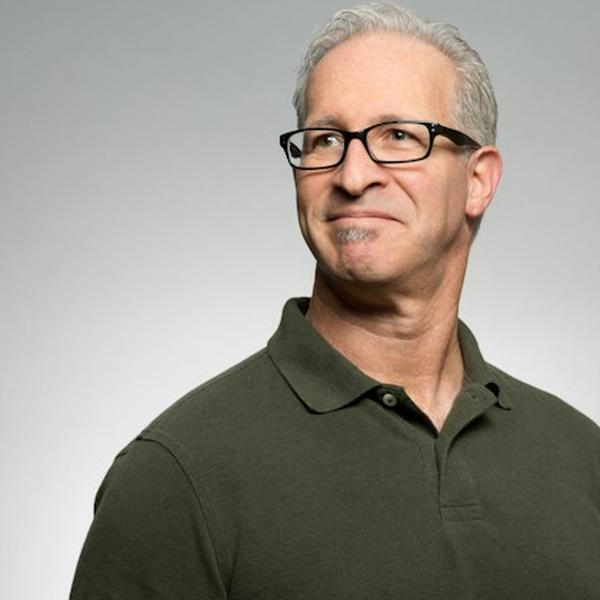
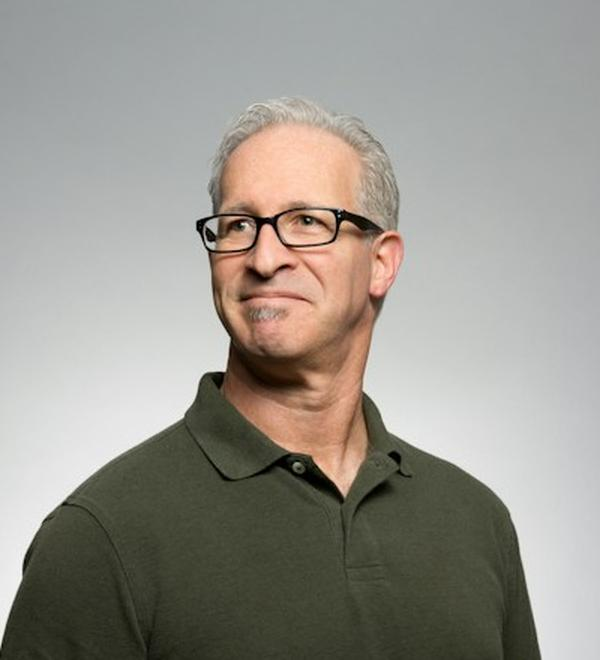
fix(ui): rapikan foto pelatih, kurangi ukuran frame agar proporsional, dan cegah pemotongan gambar asli

diff --git a/resources/views/welcome.blade.php b/resources/views/welcome.blade.php
@@ -393,58 +393,52 @@
 
         <div class="grid grid-cols-1 md:grid-cols-3 gap-8">
             @foreach($coaches as $coach)
-                <div class="bg-white rounded-2xl border border-[#EAEAEA] shadow-sm hover:shadow-md transition-all duration-300 overflow-hidden flex flex-col group">
-                    <!-- Coach Photo Container -->
-                    <div class="relative h-64 sm:h-72 w-full bg-gray-100 overflow-hidden">
-                        @if($coach->photo && file_exists(public_path($coach->photo)))
-                            <img src="{{ asset($coach->photo) }}" alt="{{ $coach->name }}" 
-                                 class="w-full h-full object-cover object-top group-hover:scale-105 transition-transform duration-500">
-                        @else
-                            <div class="w-full h-full flex flex-col items-center justify-center bg-orange-50 text-[#FF6B00]">
-                                <div class="w-20 h-20 rounded-2xl bg-white border border-orange-200 flex items-center justify-center text-3xl font-extrabold shadow-sm">
-                                    {{ strtoupper(substr($coach->name, 6, 1)) }}
+                <div class="bg-white p-7 sm:p-8 rounded-2xl border border-[#EAEAEA] shadow-sm hover:shadow-md transition-all duration-300 flex flex-col justify-between text-center group">
+                    <div>
+                        <!-- Framed Coach Portrait (Neat & Balanced, No aggressive cropping) -->
+                        <div class="w-36 h-36 sm:w-40 sm:h-40 mx-auto mb-5 rounded-2xl overflow-hidden bg-gray-50 border-2 border-orange-100/80 shadow-sm relative group-hover:border-[#FF6B00] transition-colors">
+                            @if($coach->photo && file_exists(public_path($coach->photo)))
+                                <img src="{{ asset($coach->photo) }}" alt="{{ $coach->name }}" 
+                                     class="w-full h-full object-cover object-center group-hover:scale-105 transition-transform duration-300">
+                            @else
+                                <div class="w-full h-full flex flex-col items-center justify-center bg-orange-50 text-[#FF6B00]">
+                                    <div class="w-16 h-16 rounded-xl bg-white border border-orange-200 flex items-center justify-center text-2xl font-extrabold shadow-sm">
+                                        {{ strtoupper(substr($coach->name, 6, 1)) }}
+                                    </div>
                                 </div>
-                            </div>
-                        @endif
-
-                        <!-- Floating License Badge -->
-                        <div class="absolute top-4 right-4">
-                            <span class="inline-flex items-center gap-1.5 px-3 py-1 rounded-full text-[11px] font-bold bg-[#111111]/85 text-white backdrop-blur-sm border border-white/10 shadow-sm">
-                                <i class="fa-solid fa-award text-[#FF6B00]"></i>
-                                {{ $coach->license }}
-                            </span>
-                        </div>
-
-                        <!-- Gradient Scrim for subtle photo grounding -->
-                        <div class="absolute inset-x-0 bottom-0 h-16 bg-gradient-to-t from-black/40 to-transparent pointer-events-none"></div>
-                    </div>
-
-                    <!-- Coach Details -->
-                    <div class="p-6 flex flex-col flex-grow justify-between text-left">
-                        <div>
-                            <span class="text-[11px] font-bold text-[#FF6B00] uppercase tracking-wider block">
-                                {{ $coach->role_title }}
-                            </span>
-                            <h3 class="font-bold text-[#111111] text-xl mt-1 group-hover:text-[#FF6B00] transition-colors leading-tight">
-                                {{ $coach->name }}
-                            </h3>
-                        </div>
-                        
-                        <div class="mt-5 pt-4 border-t border-[#EAEAEA] flex items-center justify-between text-xs text-[#666666]">
-                            <div class="flex items-center gap-1.5 font-medium">
-                                <i class="fa-solid fa-clock-rotate-left text-[#FF6B00]"></i>
-                                <span>Pengalaman {{ $coach->experience_years }} Tahun</span>
-                            </div>
-                            @if($coach->phone)
-                                <a href="https://wa.me/{{ preg_replace('/[^0-9]/', '', $coach->phone) }}?text=Halo%20{{ urlencode($coach->name) }},%20saya%20ingin%20bertanya%20mengenai%20latihan%20di%20SSB%20Mekar%20Jaya" 
-                                   target="_blank" 
-                                   class="text-[#16A34A] hover:text-[#15803d] font-semibold flex items-center gap-1 transition-colors"
-                                   title="Hubungi Coach via WhatsApp">
-                                    <i class="fa-brands fa-whatsapp text-sm"></i>
-                                    <span>Konsultasi</span>
-                                </a>
                             @endif
                         </div>
+
+                        <!-- License Badge -->
+                        <div class="inline-flex items-center gap-1.5 px-3 py-1 rounded-full text-[11px] font-bold bg-orange-50 text-[#FF6B00] border border-orange-200 mb-3">
+                            <i class="fa-solid fa-certificate text-xs"></i>
+                            <span>{{ $coach->license }}</span>
+                        </div>
+
+                        <!-- Coach Name & Role -->
+                        <h3 class="font-bold text-[#111111] text-lg sm:text-xl group-hover:text-[#FF6B00] transition-colors leading-snug">
+                            {{ $coach->name }}
+                        </h3>
+                        <p class="text-xs font-semibold text-[#666666] mt-1">
+                            {{ $coach->role_title }}
+                        </p>
+                    </div>
+
+                    <!-- Footer Row: Experience & WhatsApp Consultation -->
+                    <div class="mt-6 pt-5 border-t border-gray-100 flex items-center justify-between text-xs text-[#666666]">
+                        <div class="flex items-center gap-1.5 font-medium">
+                            <i class="fa-solid fa-clock-rotate-left text-[#FF6B00]"></i>
+                            <span>Pengalaman {{ $coach->experience_years }} Th</span>
+                        </div>
+                        @if($coach->phone)
+                            <a href="https://wa.me/{{ preg_replace('/[^0-9]/', '', $coach->phone) }}?text=Halo%20{{ urlencode($coach->name) }},%20saya%20ingin%20bertanya%20mengenai%20latihan%20di%20SSB%20Mekar%20Jaya" 
+                               target="_blank" 
+                               class="text-[#16A34A] hover:text-[#15803d] font-bold flex items-center gap-1 transition-colors"
+                               title="Hubungi Coach via WhatsApp">
+                                <i class="fa-brands fa-whatsapp text-sm"></i>
+                                <span>Konsultasi</span>
+                            </a>
+                        @endif
                     </div>
                 </div>
             @endforeach
